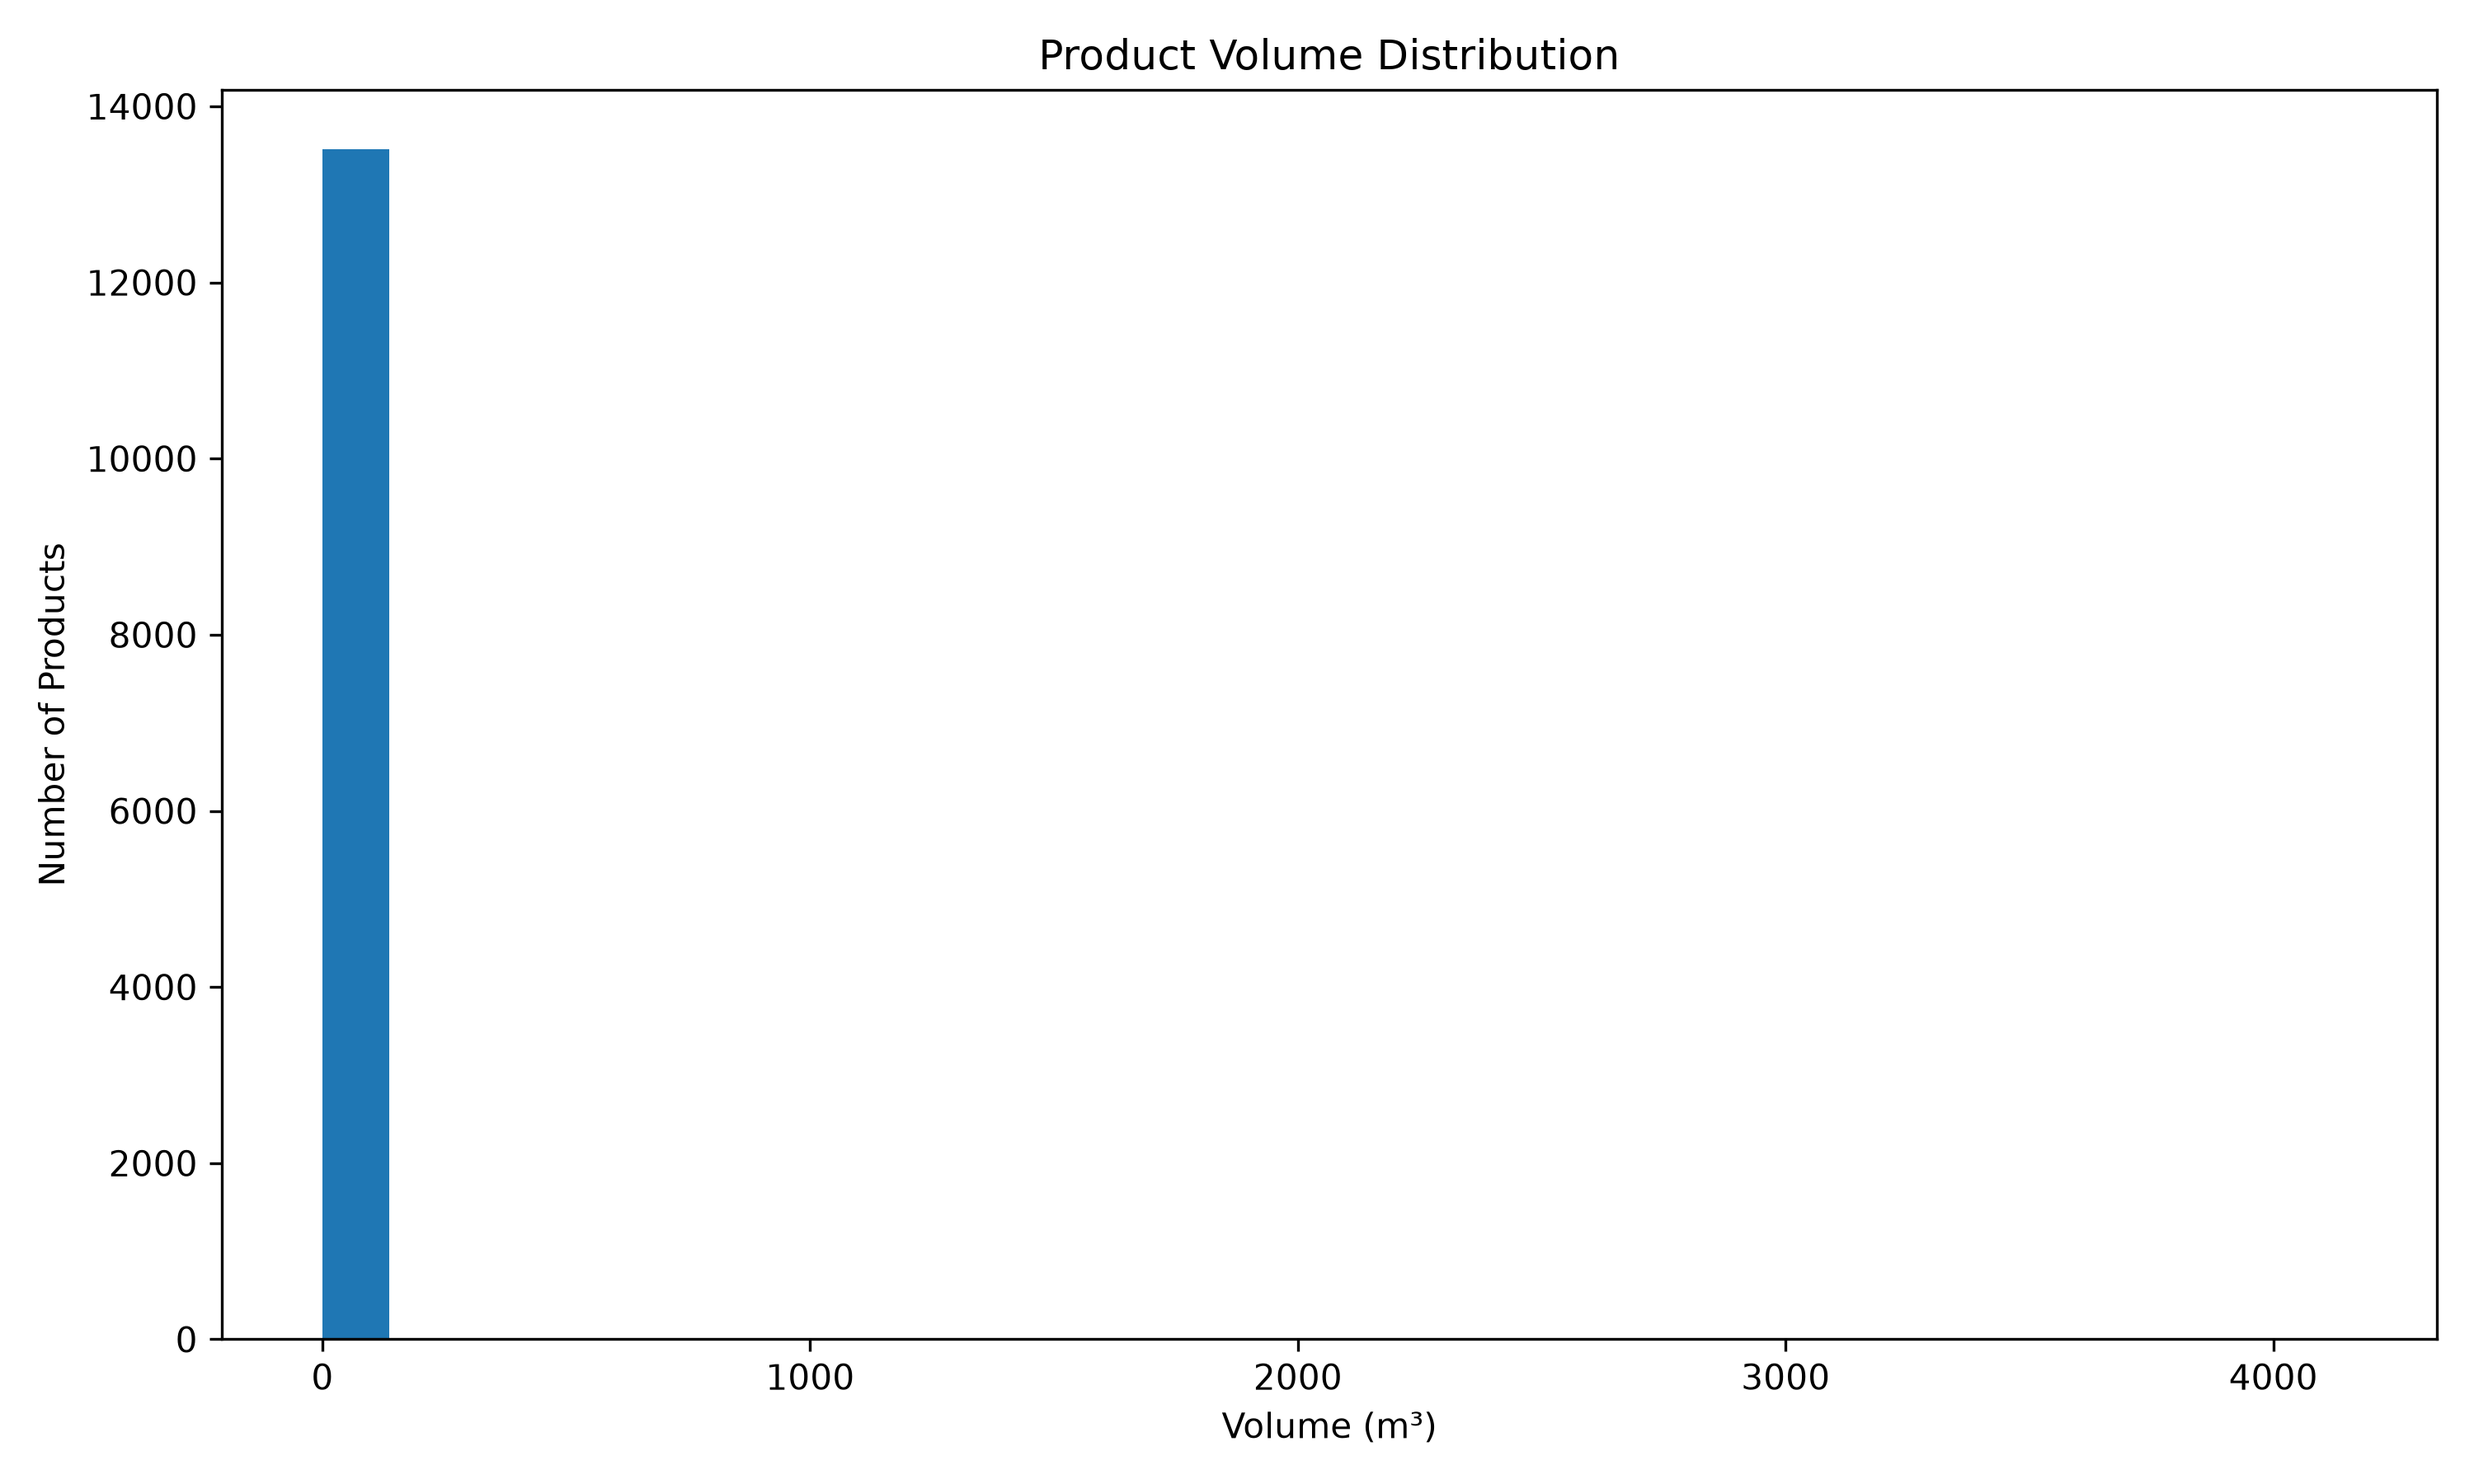
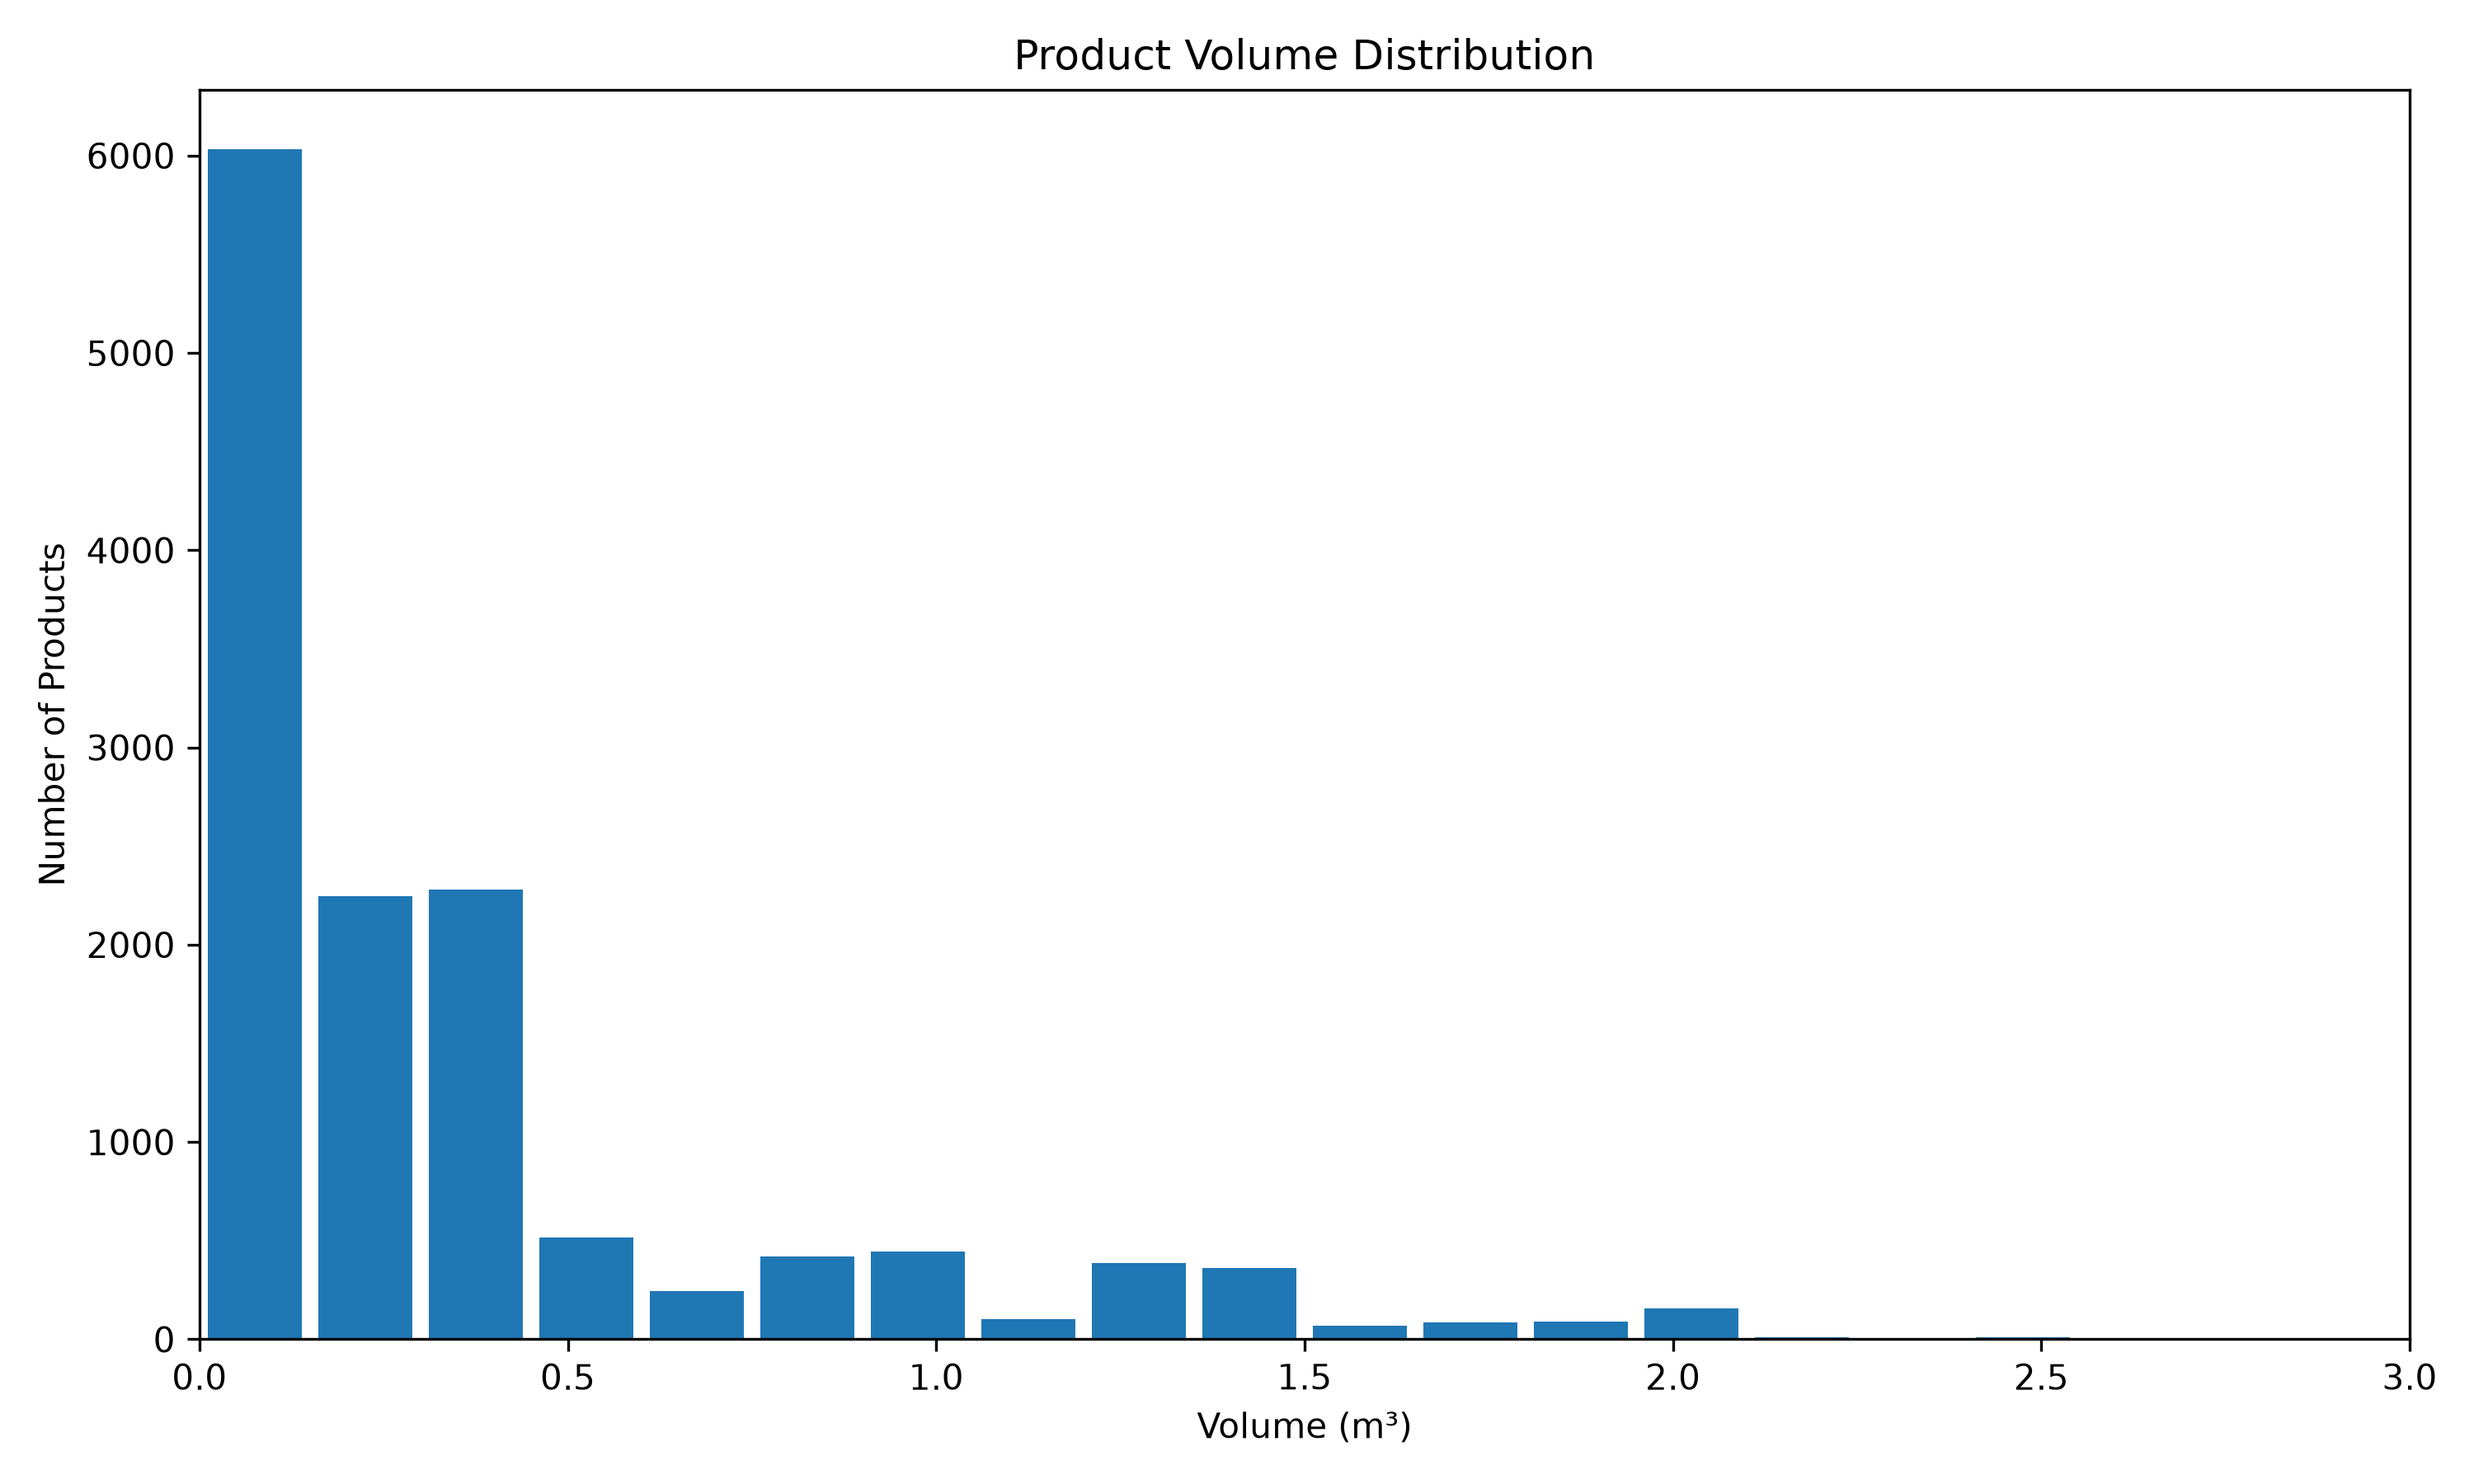
update

diff --git a/docs/03_business_insights.md b/docs/03_business_insights.md
@@ -1,16 +1,49 @@
-### Key Findings
+# Business Insights
 
-1. Transportation cost varies significantly by destination.
+This section summarizes the main practical findings that can be drawn from the transportation cost model.
 
-2. Product dimensions can become the primary constraint
-   before vehicle weight capacity is reached.
+## Capacity Constraints
 
-3. Standardized pricing rules improve cost transparency.
+Most products fall into one of two categories:
 
-4. Province-level pricing provides a practical standardization layer.
+- **Volume-limited**: the truck fills up by space before reaching the weight limit. These products leave unused weight capacity.
+- **Weight-limited**: the truck reaches the 2-ton limit while still having free volume.
 
-5. City-level pricing can provide additional precision where
-   distance differences are significant.
+Knowing the dominant constraint for each product (and shipping group) helps in two ways:
+- Better load planning when mixing different products on the same truck.
+- Identifying products that systematically under-utilize the vehicle.
 
-6. A structured pricing model can reduce manual calculations
-   and improve management reporting.
+## Cost Drivers
+
+Transportation cost is driven mainly by two factors:
+
+1. **Loaded weight** – heavier effective loads increase the base cost.
+2. **Distance** – longer routes (especially to distant provinces) raise the cost significantly.
+
+Because insurance and the percentage-based surcharges are applied on top of the base cost, long-distance shipments become disproportionately expensive.
+
+## Province vs City Level
+
+- Province-level costs (using median distance) are useful for high-level planning and budgeting.
+- City-level costs show meaningful differences inside the same province. In some cases the cost gap between two cities in one province is large enough to affect pricing decisions.
+
+## Shipping Group Perspective
+
+Grouping products by shipping group reduces the number of combinations and makes the cost matrix more manageable for commercial teams. The median loaded weight of the group is a reasonable proxy for typical shipments of that group.
+
+## Practical Uses
+
+The outputs can support:
+
+- Setting or reviewing freight rates by destination
+- Comparing the cost of shipping different product groups to the same region
+- Spotting destinations that are structurally expensive
+- Estimating the impact of changes in product mix or packaging (volume/weight)
+
+## Limitations
+
+- The model assumes one vehicle type (Khawar).
+- No multi-stop routes or return loads are considered.
+- Actual commercial rates are not published here; only the calculation logic is shown.
+
+These insights are based on the structure of the data and the cost formula. Actual numbers will vary with the specific product and location files used.

diff --git a/README.md b/README.md
@@ -1,3 +1,4 @@
+
 # Transportation Pricing & Cost Optimization
 
 ## Real-World Logistics Analytics Case Study
@@ -73,5 +74,19 @@ is primarily constrained by volume or weight.
 ---
 
 ## Project Structure
-
+├── data/                  # Placed main.xlsx 
+├── notebooks/
+│   ├── 01_data_exploration.ipynb
+│   ├── 02_capacity_analysis.ipynb
+│   └── 03_transportation_pricing.ipynb
+├── src/
+│   └── transportation_cost_calculator.py
+├── results/                        # Generated output files
+├── figures
+├── tabeles
+│── Results.md              
+├──docs/
+├── 01_business_problem.md
+├── 02_Transportation_Pricing_Methodology.md
+└── 03_business_insights.md
 ...
